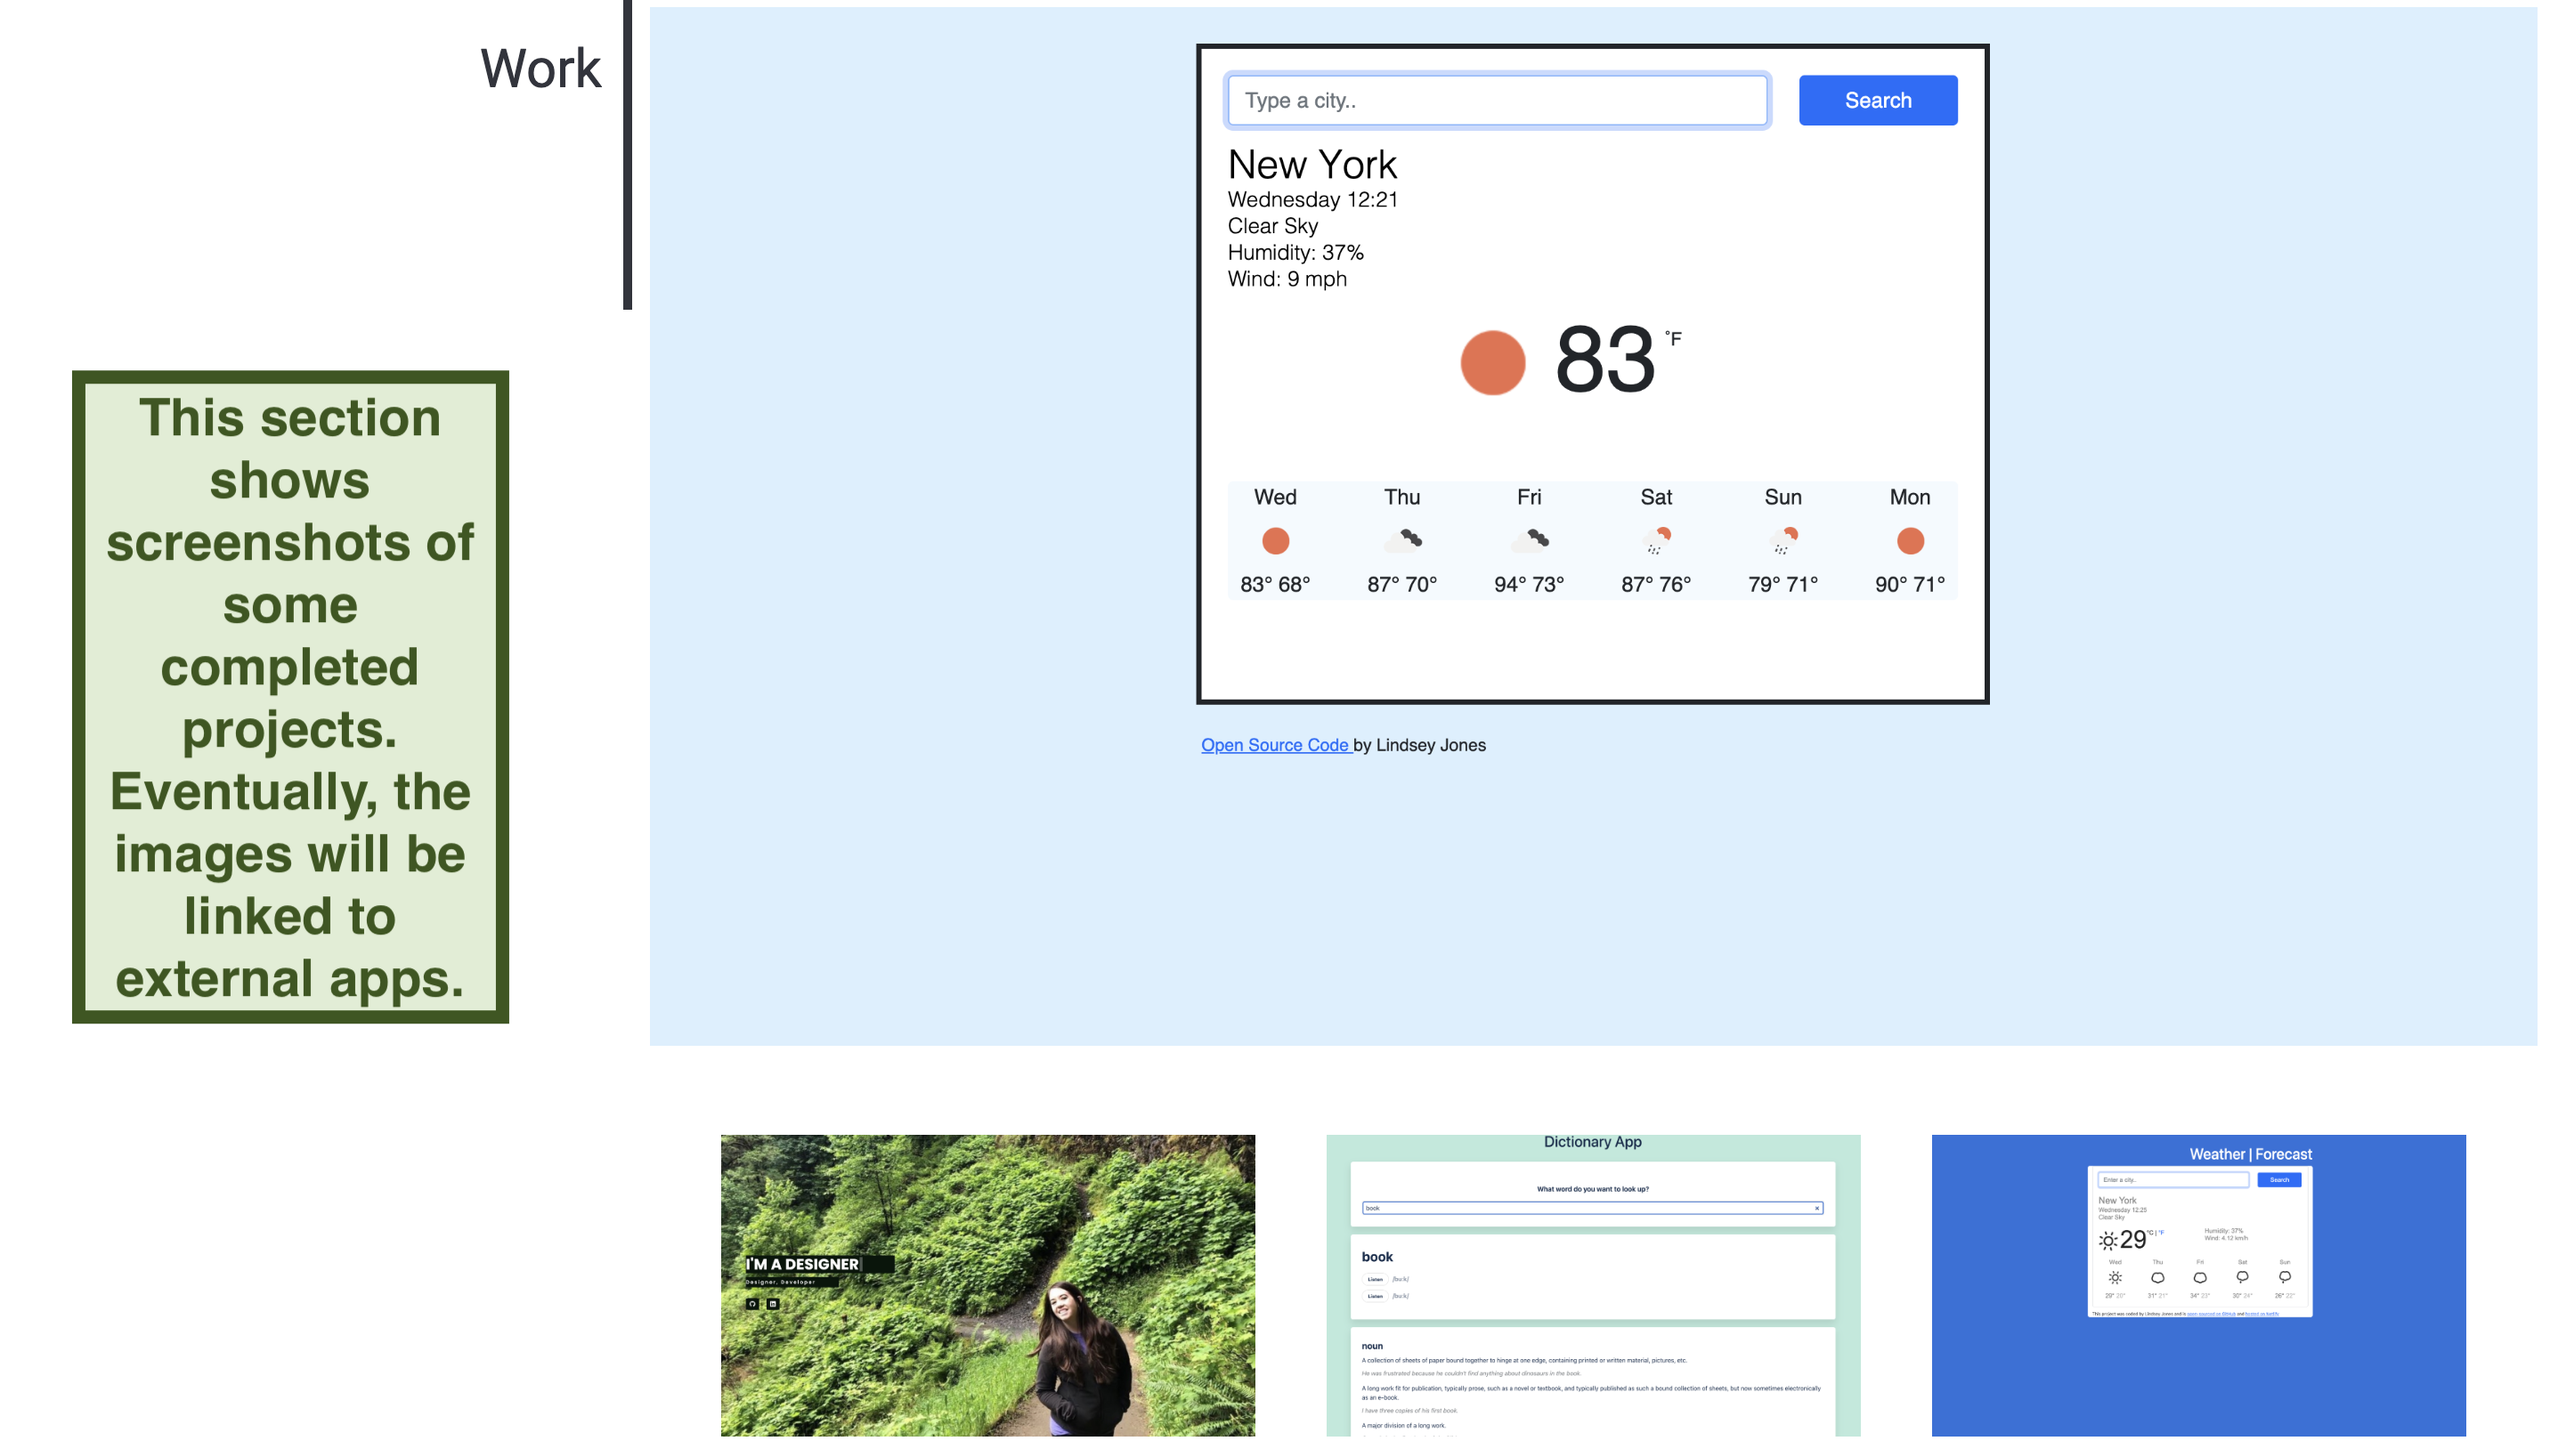
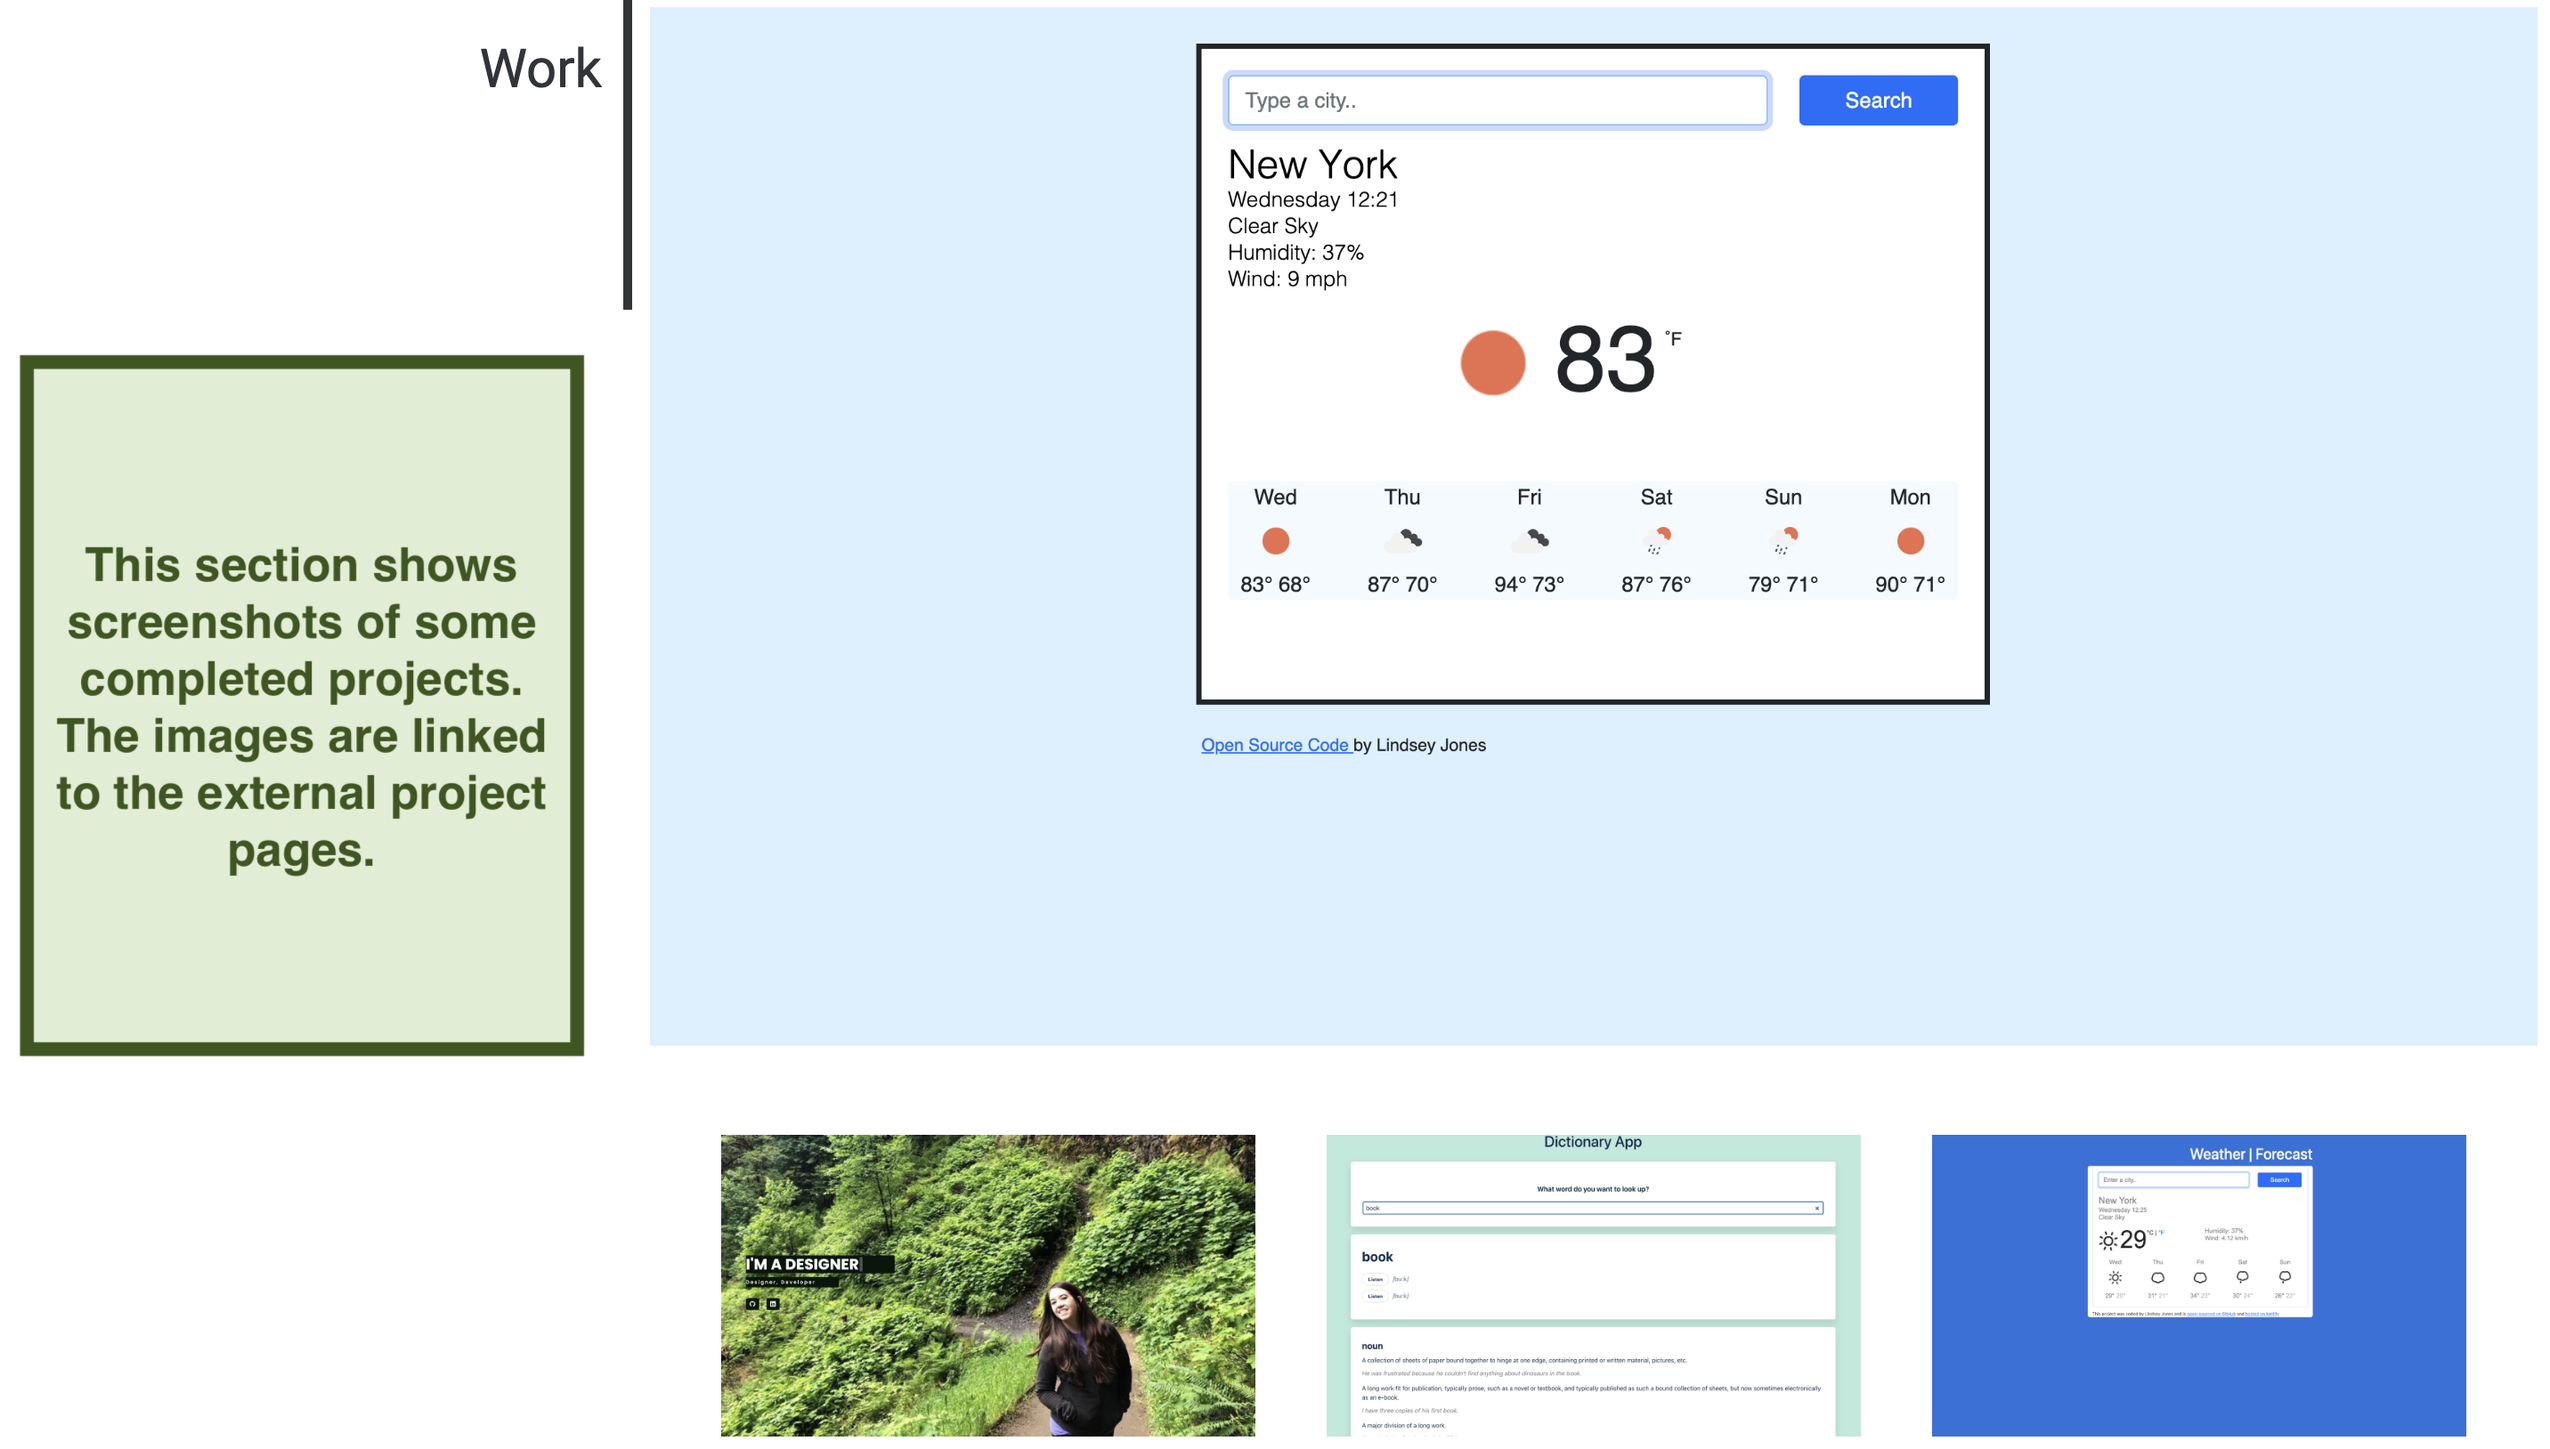
Added links to images and a media query

Changed region(s): [[0.0, 0.2457, 0.2486, 0.7371]]

diff --git a/index.html b/index.html
@@ -53,24 +53,45 @@
         <aside id="work-section">Work</aside>
 
         <div class="projects">
-          <img
-            src="./assets/images/JavaScript-Weather.png"
-            alt="weather app"
-            class="weather"
-          />
-          <img src="./assets/images/Portfolio.png" alt="portfolio website" />
-          <img
-            src="./assets/images/React-Dictionary.png"
-            alt="dictionary app"
-          />
-          <img
-            src="./assets/images/React-Weather.png"
-            alt="react weather app"
-          />
-          <img
-            src="./assets/images/Sample-Personal-Website.png"
-            alt="sample website"
-          />
+          <a
+            href="https://famous-wisp-26babe.netlify.app/"
+            title=""
+            target="_blank"
+            ><img
+              src="./assets/images/JavaScript-Weather.png"
+              alt="weather app"
+              class="weather"
+          /></a>
+          <a
+            href="https://thunderous-monstera-5948be.netlify.app/"
+            title=""
+            target="_blank"
+            ><img src="./assets/images/Portfolio.png" alt="portfolio website"
+          /></a>
+          <a
+            href="https://super-llama-f8a10f.netlify.app/"
+            title=""
+            target="_blank"
+            ><img
+              src="./assets/images/React-Dictionary.png"
+              alt="dictionary app"
+          /></a>
+          <a
+            href="https://candid-truffle-6c77cb.netlify.app/"
+            title=""
+            target="_blank"
+            ><img
+              src="./assets/images/React-Weather.png"
+              alt="react weather app"
+          /></a>
+          <a
+            href="https://exquisite-biscuit-7ff413.netlify.app/"
+            title=""
+            target="_blank"
+            ><img
+              src="./assets/images/Sample-Personal-Website.png"
+              alt="sample website"
+          /></a>
         </div>
       </figure>
 

diff --git a/assets/style.css b/assets/style.css
@@ -127,9 +127,12 @@ p {
   margin-bottom: 100px;
 }
 
+.work aside {
+  height: 850px;
+}
+
 .work img {
   margin: 20px;
-
   display: flex;
   flex-direction: row;
   width: 300px;
@@ -150,6 +153,7 @@ p {
   flex-direction: row;
   flex: 2 0 0;
   min-height: 400px;
+  min-width: 650px;
   flex-basis: 100%;
   padding: 10px;
 }
@@ -184,4 +188,11 @@ p {
 .contact div {
   text-align: center;
   margin-top: 5%;
+}
+
+@media screen and (max-width: 768px) {
+  .weather {
+    min-height: 169.391px;
+    min-width: 300px;
+  }
 }
